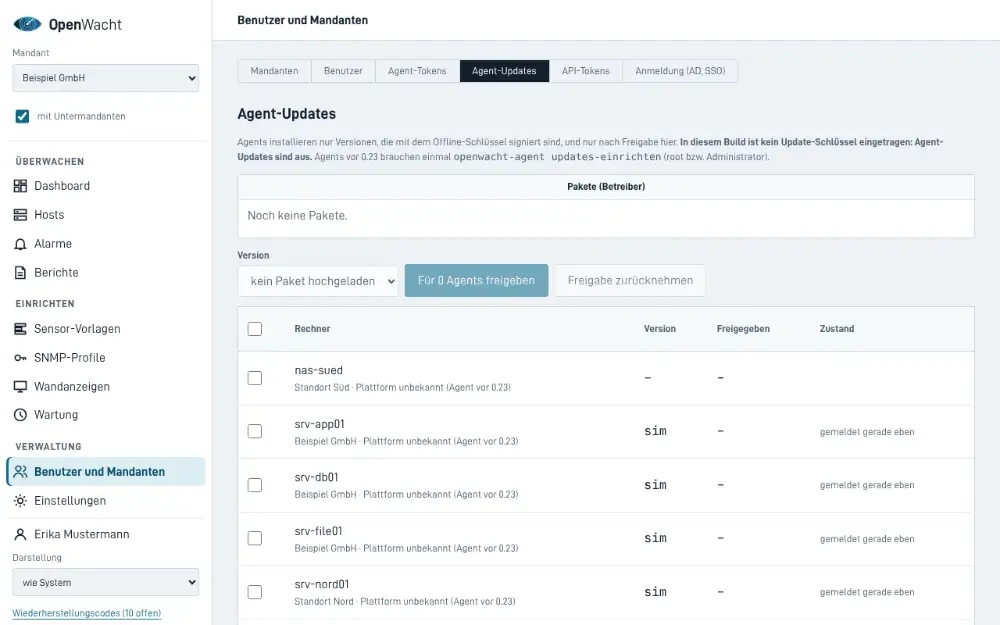
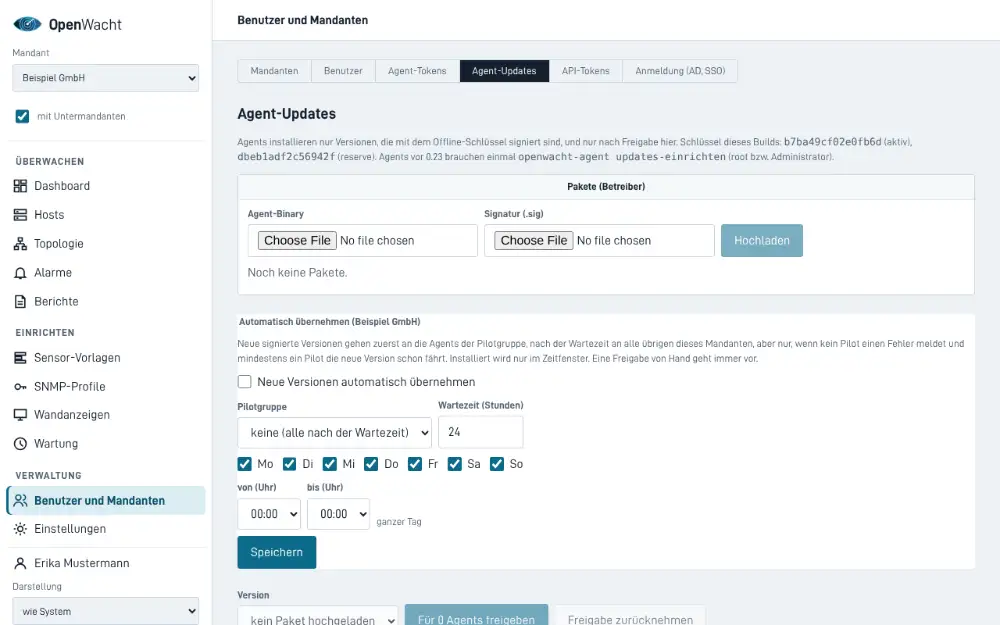
1.0.4: Handbuch, Release-Notizen, Version
Handbuch zu Update in der Oberfläche (Kapitel 1), automatischen
Agent-Updates (Kapitel 12), Desktop-App (Kapitel 8) und Härtung
(Kapitel 17); Bild Agent-Updates neu. Release-Notizen 1.0.4, VERSION 1.0.4.

diff --git a/docs/handbuch/01-installation.md b/docs/handbuch/01-installation.md
@@ -30,7 +30,7 @@ sudo locale-gen && sudo update-locale LANG=de_DE.UTF-8
 
 ```bash
 sudo apt install postgresql
-sudo apt install ./openwacht-zentrale_1.0.3_amd64.deb
+sudo apt install ./openwacht-zentrale_1.0.4_amd64.deb
 ```
 
 **Empfohlen bei einer neuen Maschine:** den noch leeren Cluster einmal neu anlegen, mit Prüfsummen für die Datenseiten
@@ -52,8 +52,8 @@ Das Offline-Paket enthält die Zentrale **und** PostgreSQL mit allen Abhängigke
 in [Kapitel 14](14-betrieb-ohne-internet.md#offline-paket-bauen).
 
 ```bash
-tar xf openwacht-offline_1.0.3_debian-13_amd64.tar
-cd openwacht-offline_1.0.3_debian-13_amd64
+tar xf openwacht-offline_1.0.4_debian-13_amd64.tar
+cd openwacht-offline_1.0.4_debian-13_amd64
 sudo sh installieren.sh -pruefen -abdruck <kennung>   # nur prüfen, nichts ändern
 sudo sh installieren.sh -abdruck <kennung>            # erste Installation
 sudo sh installieren.sh                               # Update einer bestehenden Installation
@@ -114,6 +114,30 @@ Weiter mit der [ersten Einrichtung](02-erste-einrichtung.md).
 Ein Update betrifft nur die **Zentrale**. Agents laufen an einer neueren Zentrale weiter und müssen nicht gleichzeitig
 mit (siehe unten). Fehlende Migrationen laufen beim Update von selbst, die Dienste starten neu. Migrationen sind nicht
 umkehrbar: Zurück geht es nur mit einer Sicherung und dem alten Paket.
+
+### In der Oberfläche (ab 1.0.4)
+
+Ist die Zentrale als Debian-Paket installiert, geht das Update auch ohne Shell: **Einstellungen → Update der Zentrale**
+(nur der Betreiber).
+
+1. Aus demselben Build das Paket `openwacht-zentrale_<version>_amd64.deb` (bzw. `_arm64`), `SHA256SUMS` und
+   `SHA256SUMS.sig` wählen und den Code aus der Authenticator-App eingeben.
+2. **Prüfen und installieren:** Die Zentrale prüft die Signatur von `SHA256SUMS` mit dem Update-Schlüssel
+   ([Kapitel 12](12-agent-updates.md)), dass das Paket dort mit seiner Prüfsumme steht, die Plattform und dass die
+   Version neuer ist. Erst dann legt sie es ab. Ein Paket ohne gültige Signatur oder eine ältere Version lehnt sie ab;
+   das steht im Audit-Log (`zentrale.update_abgelehnt`).
+3. Den Rest macht ein **getrennter Dienst mit root-Rechten** (`openwacht-zentrale-update`): Er prüft dasselbe noch
+   einmal an einer eigenen Kopie, mit den Schlüsseln seines eigenen, von root installierten Programms, und ruft dann
+   `apt-get install` auf. Der Webdienst selbst bekommt nie root-Rechte. Das Paket sichert vor Änderungen an der
+   Datenbank wie immer selbst.
+4. Die Zentrale startet dabei neu; die Seite ist eine halbe Minute nicht erreichbar und zeigt danach das Ergebnis mit der
+   Ausgabe von apt. Unten links steht die neue Version.
+
+Vorher einen Snapshot der VM anlegen. Schlägt apt fehl, läuft die bisherige Version weiter; Einzelheiten in der Ausgabe
+und mit `journalctl -u openwacht-zentrale-update`. **Das erste Mal, auf 1.0.4, geht es noch wie unten von Hand**: Erst
+ab 1.0.4 ist der Dienst dafür installiert.
+
+### Von Hand
 
 **1. Lesen, was kommt.** [Release-Notizen](../release-notizen.md) der neuen Version: neue Migrationen, geänderte
 Einstellungen, bekannte Grenzen. Wer mehrere Versionen überspringt, liest alle dazwischen; ein Sprung ist erlaubt.

diff --git a/docs/handbuch/12-agent-updates.md b/docs/handbuch/12-agent-updates.md
@@ -53,6 +53,26 @@ und legt es bereit. Den Austausch macht ein **getrennter** Installationsdienst m
 dem Schlüssel des installierten Agents noch einmal prüft (Linux sofort, Windows über eine geplante Aufgabe binnen
 15 Minuten). Der Agent-Dienst selbst kann sein Programm nicht ändern.
 
+## Automatisch übernehmen (ab 1.0.4)
+
+Statt jede Version von Hand freizugeben, übernehmen die Agents eines Mandanten neue Versionen auf Wunsch selbst:
+**Verwaltung → Agent-Updates → Automatisch übernehmen** (Admins des Mandanten oder darüber, je Mandant).
+
+- **Pilotgruppe** (eine Gerätegruppe, mit Untergruppen): Ihre Agents bekommen eine neue Version, sobald das Paket
+  hochgeladen ist.
+- **Wartezeit** (0 bis 720 Stunden, Standard 24): Erst danach sind die übrigen Agents dran, und nur, wenn **kein Pilot
+  einen Fehler** beim Update meldet und, falls es Piloten gibt, **mindestens einer die neue Version schon fährt**. Ohne
+  Pilotgruppe zählt nur die Wartezeit.
+- **Zeitfenster:** Wochentage und Stunden in der Zeitzone der Installation; „von“ gleich „bis“ heißt ganzer Tag, „von“
+  größer als „bis“ reicht über Mitternacht (z. B. 22 bis 5 Uhr).
+
+Ist ein Agent dran, trägt die Zentrale bei seiner nächsten Meldung die Freigabe ein (Spalte „Freigegeben“ mit dem
+Zusatz „automatisch“); danach läuft alles wie bei einer Freigabe von Hand, mit derselben Prüfung der Signatur im Agent.
+Eine **Freigabe von Hand geht vor** und wird von der Automatik nicht überschrieben. Eine Rückstufung gibt es auch hier
+nicht. Änderungen an der Regel stehen im Audit-Log (`agent_update.automatik`).
+
+Voraussetzung ist wie immer ein mit dem Offline-Schlüssel signiertes Paket, das der Betreiber hochgeladen hat.
+
 ## Schlüssel wechseln oder widerrufen
 
 - **Geplanter Wechsel:** neuen Schlüssel erzeugen, in `schluessel.pub` den bisherigen auf `auslaufend` und den neuen
@@ -60,7 +80,7 @@ dem Schlüssel des installierten Agents noch einmal prüft (Linux sofort, Window
   Version den alten Eintrag entfernen.
 - **Schlüssel verloren oder abgeflossen:** Version bauen, in der der Schlüssel als `widerrufen` steht, und mit der
   **Reserve** signieren, dabei den Schlüssel ausdrücklich widerrufen:
-  `go run ./tools/signieren -schluessel ~/openwacht-reserve.key -version 1.0.3 -widerrufen <kennung> openwacht-agent_…`.
+  `go run ./tools/signieren -schluessel ~/openwacht-reserve.key -version 1.0.4 -widerrufen <kennung> openwacht-agent_…`.
   Danach einen neuen Reserve-Schlüssel anlegen.
 
 Ein Widerruf ist mitsigniert. Lädt der Betreiber ein solches Paket hoch, bietet die Zentrale nichts mehr an, was mit

diff --git a/docs/handbuch/08-alarme-und-wartung.md b/docs/handbuch/08-alarme-und-wartung.md
@@ -53,6 +53,31 @@ oder der Knopf **Als App installieren** im Dialog, wenn der Browser es anbietet.
 derselben Anmeldung; minimiert kommen die Windows-Benachrichtigungen weiter. Entfernen: in der App Menü → „OpenWacht
 deinstallieren“ bzw. Windows-Einstellungen → Apps.
 
+### Desktop-App für Windows (ab 1.0.4)
+
+`openwacht-desktop.exe` (aus dem Build, `openwacht-desktop_windows_amd64.exe` bzw. `_arm64`) zeigt OpenWacht im
+Infobereich neben der Uhr, **auch ohne offenes Browserfenster**:
+
+- Das **Symbol** trägt den schlimmsten offenen, nicht bestätigten Alarm, als Form und Farbe wie in der Oberfläche (Kreis
+  OK, Dreieck Warnung, Achteck kritisch, gestricheltes Quadrat unbekannt, leerer Ring: keine Verbindung). Der Tooltip
+  nennt die Zahlen.
+- **Benachrichtigungen von Windows** bei neuen Alarmen, Verschlechterungen und Entwarnungen (ab vier auf einmal eine
+  zusammengefasste); ein Klick öffnet die Alarme im Browser.
+- **Menü** (Rechtsklick): OpenWacht öffnen, Alarme öffnen, jetzt prüfen, mit Windows starten, einrichten, beenden.
+  Linksklick öffnet OpenWacht.
+
+**Einrichten:** In OpenWacht unter **Verwaltung → API-Tokens** ein Token mit der Rolle **Leser** für den Mandanten
+anlegen ([Kapitel 11](11-api-tokens.md)). Die Datei z. B. nach `%LOCALAPPDATA%\Programs\OpenWacht\` kopieren und
+starten. Beim ersten Start fragt ein Konsolenfenster nach der Adresse der Zentrale und dem Token (Eingabe unsichtbar),
+prüft beides mit einer Abfrage und speichert das Token in der **Windows-Anmeldeinformationsverwaltung** (Eintrag
+„OpenWacht Desktop“), nie in einer Datei. Die Adresse steht in `%APPDATA%\OpenWacht\desktop.json`.
+`openwacht-desktop entfernen` löscht Token, Einstellungen und Autostart wieder.
+
+Die App fragt alle 30 Sekunden `GET /api/v1/alarme` ab, nur über HTTPS und ohne Weiterleitungen zu folgen; sie ändert
+nichts. Das Zertifikat der Zentrale muss Windows vertrauen (z. B. Firmen-CA). Sie ist wie der Windows-Agent nicht
+Authenticode-signiert: SmartScreen warnt beim ersten Start, und ein Virenschutz braucht ggf. eine Ausnahme. Unter Windows
+ist sie bisher nur gebaut, nicht von uns ausgeführt worden.
+
 Die Oberfläche fragt dafür alle 15 Sekunden die Alarme ab, mit Windows-Benachrichtigung auch im Hintergrund. Den Ton einer
 **Wandanzeige** stellen Admins in der Liste der Wandanzeigen unter „Ton“ ein
 ([Kapitel 4](04-hosts.md#dashboard-und-wandanzeige)).

diff --git a/docs/handbuch/05-agent.md b/docs/handbuch/05-agent.md
@@ -28,10 +28,10 @@ Rechner auch gleich und startet den Dienst. Als root:
 ```bash
 # Debian, Ubuntu
 OPENWACHT_ZENTRALE=https://openwacht.beispiel.example:8444 OPENWACHT_TOKEN=owa1.… \
-  apt install ./openwacht-agent_1.0.3_amd64.deb
+  apt install ./openwacht-agent_1.0.4_amd64.deb
 # RHEL, Rocky, Alma, SUSE
 OPENWACHT_ZENTRALE=https://openwacht.beispiel.example:8444 OPENWACHT_TOKEN=owa1.… \
-  dnf install ./openwacht-agent-1.0.3-1.x86_64.rpm
+  dnf install ./openwacht-agent-1.0.4-1.x86_64.rpm
 ```
 
 Das Token nicht in die Befehlszeile tippen, wenn die Shell-Historie mitschreibt, sondern vorher geschützt einlesen und
@@ -41,7 +41,7 @@ kurz prüfen (ein vollständiges Token hat **92 Zeichen** und beginnt mit `owa1.
 read -rs OPENWACHT_TOKEN
 echo "${#OPENWACHT_TOKEN} ${OPENWACHT_TOKEN:0:5}"     # erwartet: 92 owa1.
 OPENWACHT_ZENTRALE=https://openwacht.beispiel.example:8444 OPENWACHT_TOKEN="$OPENWACHT_TOKEN" \
-  apt install ./openwacht-agent_1.0.3_amd64.deb
+  apt install ./openwacht-agent_1.0.4_amd64.deb
 unset OPENWACHT_TOKEN
 ```
 
@@ -67,7 +67,7 @@ Das MSI installiert nach `C:\Program Files\OpenWacht` und ruft danach als SYSTEM
 auf. Stille Installation:
 
 ```powershell
-msiexec /i openwacht-agent_1.0.3_amd64.msi /qn ZENTRALE=https://openwacht.beispiel.example:8444 TOKEN=owa1.…
+msiexec /i openwacht-agent_1.0.4_amd64.msi /qn ZENTRALE=https://openwacht.beispiel.example:8444 TOKEN=owa1.…
 ```
 
 - `TOKEN` ist eine versteckte Eigenschaft: Sie erscheint nicht im Installationsprotokoll (`/l*v`), die Befehlszeile der

diff --git a/docs/release-notizen.md b/docs/release-notizen.md
@@ -1,5 +1,17 @@
 # Release-Notizen OpenWacht
 
+## 1.0.4
+
+- **Update der Zentrale in der Oberfläche:** Einstellungen → Update der Zentrale (Betreiber, mit Zweitfaktor). Paket,
+  `SHA256SUMS` und `SHA256SUMS.sig` hochladen; die Zentrale prüft Signatur, Prüfsumme, Plattform und Version, ein
+  getrennter Dienst mit root-Rechten prüft noch einmal und installiert mit apt. Nur bei Installation als
+  Debian-Paket; das Update **auf** 1.0.4 selbst noch von Hand ([Handbuch Kapitel 1](handbuch/01-installation.md)).
+- **Agent-Updates automatisch:** je Mandant Pilotgruppe, Wartezeit und Zeitfenster; die übrigen Agents folgen nur, wenn
+  kein Pilot einen Fehler meldet. Freigaben von Hand gehen vor ([Kapitel 12](handbuch/12-agent-updates.md)).
+- **Desktop-App für Windows:** `openwacht-desktop` im Infobereich mit Zustandssymbol und Benachrichtigungen, nur lesend
+  mit einem API-Token der Rolle Leser ([Kapitel 8](handbuch/08-alarme-und-wartung.md)).
+- Migration 0053 (läuft beim Update von selbst). Agents müssen nicht aktualisiert werden.
+
 ## 1.0.3
 
 - **Kürzere Alarm-Mails:** Der Betreff nennt nur noch Zustand, Gerät und Sensor (höchstens 90 Zeichen), die Meldung steht

diff --git a/docs/handbuch/14-betrieb-ohne-internet.md b/docs/handbuch/14-betrieb-ohne-internet.md
@@ -34,7 +34,7 @@ sudo apt install apt-utils debian-archive-keyring     # einmalig
 sh deploy/offline/paket-bauen.sh -dist dist
 
 # Ergebnis
-ls dist/openwacht-offline_1.0.3_debian-13_amd64.tar*
+ls dist/openwacht-offline_1.0.4_debian-13_amd64.tar*
 ```
 
 Das Skript
@@ -52,9 +52,9 @@ Optionen: `-arch arm64`, `-aus <ordner>`, `-quellen <datei>` (z. B. ein Spiegel 
 Update-Schlüssel signiert (eigener Kontext, eine Update-Signatur gilt dafür nicht):
 
 ```bash
-tar -xOf dist/openwacht-offline_1.0.3_debian-13_amd64.tar openwacht-offline_1.0.3_debian-13_amd64/SHA256SUMS >SHA256SUMS
+tar -xOf dist/openwacht-offline_1.0.4_debian-13_amd64.tar openwacht-offline_1.0.4_debian-13_amd64/SHA256SUMS >SHA256SUMS
 go run ./tools/signieren -schluessel ~/openwacht-update.key -summen SHA256SUMS      # offline
-sh deploy/offline/paket-bauen.sh -dist dist -signatur SHA256SUMS.sig -paket dist/openwacht-offline_1.0.3_debian-13_amd64.tar
+sh deploy/offline/paket-bauen.sh -dist dist -signatur SHA256SUMS.sig -paket dist/openwacht-offline_1.0.4_debian-13_amd64.tar
 ```
 
 Der letzte Schritt legt `SHA256SUMS.sig` ins Paket, prüft sie mit `dist/openwacht-zentrale_linux_amd64` und packt neu.

diff --git a/docs/handbuch/17-haertung.md b/docs/handbuch/17-haertung.md
@@ -70,6 +70,13 @@ Die Zentrale macht HTTPS selbst; ein Reverse Proxy ist nicht nötig. Wenn doch (
   Anker gegen nachträgliche Änderungen (Kapitel 13).
 - Updates des Betriebssystems und von PostgreSQL regelmäßig einspielen; beim Offline-Paket heißt das: neu bauen.
 - `systemd-analyze security openwacht-zentrale` sollte „OK“ (≤ 2) zeigen; eigene Drop-ins nicht lockern.
+- **Update aus der Oberfläche (ab 1.0.4):** Einziger Dienst mit root-Rechten ist `openwacht-zentrale-update`. Er startet
+  nur, wenn der Webdienst einen Auftrag in `/var/lib/openwacht-update` ablegt, und installiert nur ein Paket, dessen
+  `SHA256SUMS` mit dem Update-Schlüssel signiert ist und das neuer ist als die laufende Version; die Prüfung macht er
+  selbst, mit den Schlüsseln seines eigenen Programms. Wer das nicht will:
+  `systemctl disable --now openwacht-zentrale-update.path` (Updates dann wieder von Hand, Kapitel 1).
+- **Desktop-App:** nur Tokens mit der Rolle **Leser** verwenden, je Person ein eigenes, mit Ablaufdatum; beim
+  Ausscheiden widerrufen (Kapitel 11).
 
 ## 5. Agents
 

diff --git a/README.md b/README.md
@@ -5,7 +5,7 @@ selbst betrieben. Freie Software unter der GNU AGPL v3 (siehe [Lizenz](#lizenz))
 
 ![Hosts mit Gruppen, Zuständen und Messwerten](docs/bilder/hosts.png)
 
-**Stand:** 1.0.3. Handbuch: [`docs/handbuch/`](docs/handbuch/README.md), Änderungen: [`docs/release-notizen.md`](docs/release-notizen.md).
+**Stand:** 1.0.4. Handbuch: [`docs/handbuch/`](docs/handbuch/README.md), Änderungen: [`docs/release-notizen.md`](docs/release-notizen.md).
 Jeder Build legt neben `SHA256SUMS` eine Software-Stückliste (CycloneDX) ab; für Kunden ohne Internet gibt es ein
 Offline-Installationspaket (`deploy/offline/`, Handbuch Kapitel 14).
 

diff --git a/docs/handbuch/README.md b/docs/handbuch/README.md
@@ -1,7 +1,7 @@
 # Handbuch OpenWacht
 
 OpenWacht überwacht Server, Netzwerkgeräte und Dienste für mehrere Mandanten (z. B. Standorte, Abteilungen oder Kunden) von einer
-Zentrale aus. Es läuft vollständig im eigenen Netz, auch ganz ohne Internet. Dieses Handbuch beschreibt Version 1.0.3.
+Zentrale aus. Es läuft vollständig im eigenen Netz, auch ganz ohne Internet. Dieses Handbuch beschreibt Version 1.0.4.
 
 ![Dashboard](bilder/dashboard.webp)
 

diff --git a/deploy/linux/README.md b/deploy/linux/README.md
@@ -4,7 +4,7 @@
 
 ```bash
 apt install postgresql
-apt install ./openwacht-zentrale_1.0.3_amd64.deb
+apt install ./openwacht-zentrale_1.0.4_amd64.deb
 ```
 
 `postinst` ruft `openwacht-zentrale installieren` auf: Systembenutzer, `/etc/openwacht` mit Hauptschlüssel,
